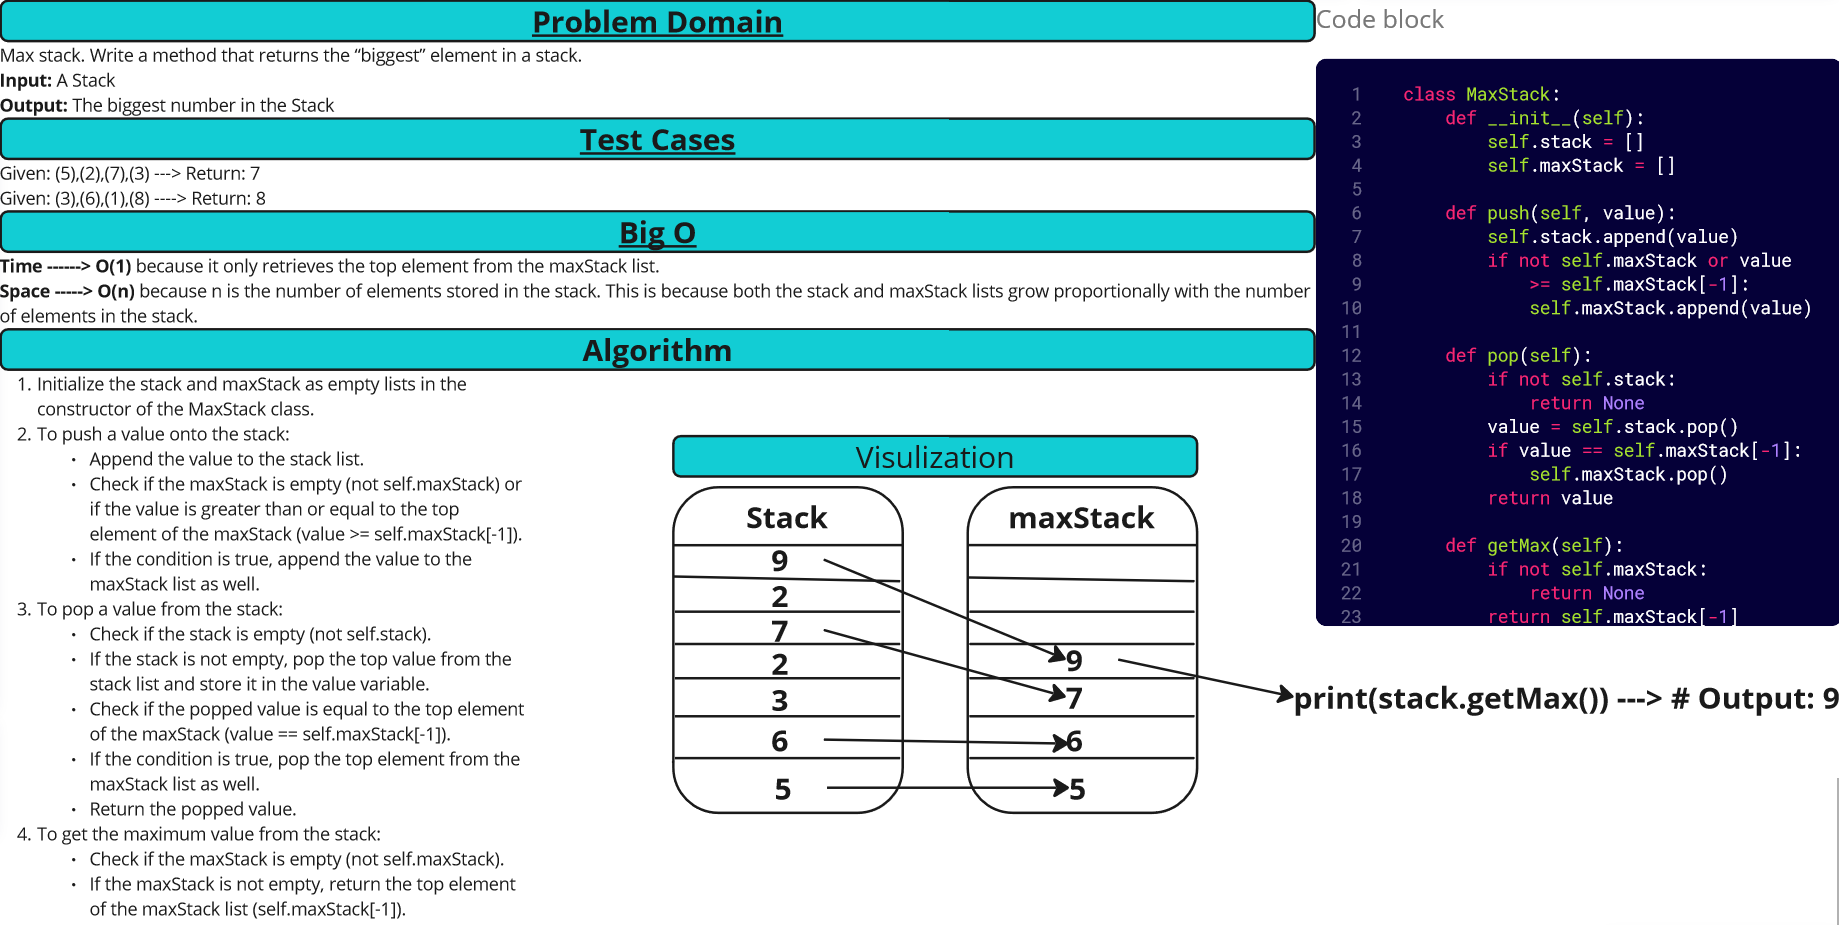
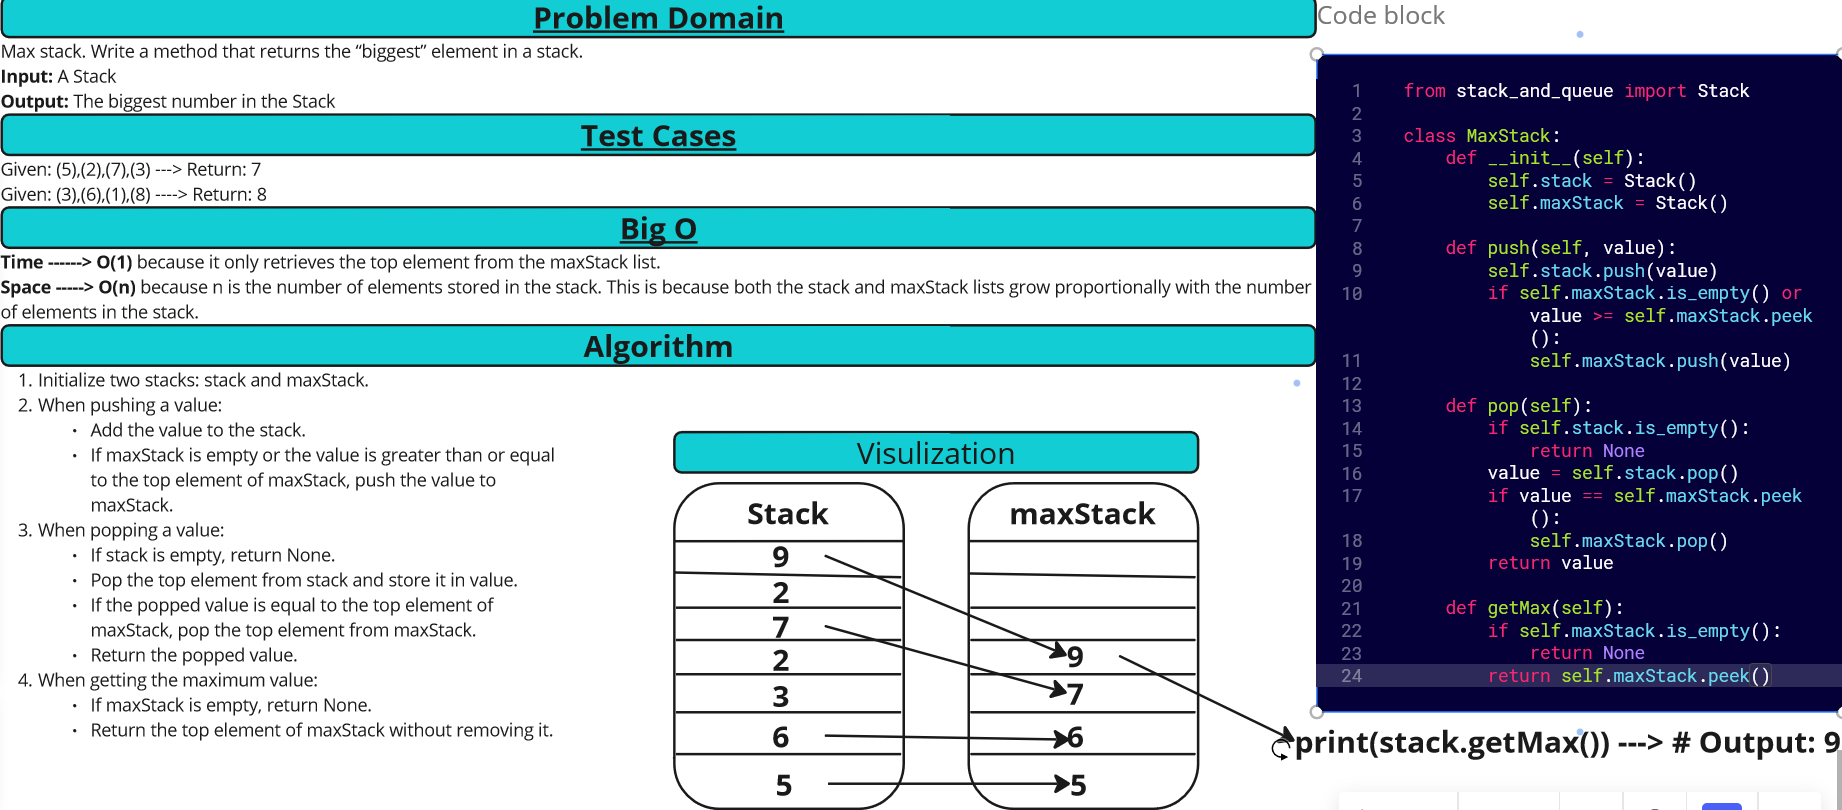
Fix whiteboard14

diff --git a/code_challange_class14/stack_and_queue.py b/code_challange_class14/stack_and_queue.py
@@ -1,0 +1,84 @@
+class Node:
+    """
+    Represents a node in a linked list.
+    
+    Args:
+        value: The value stored in the node.
+        next_: Reference to the next node in the linked list (default is None).
+    """
+    def __init__(self, value, next_=None):
+        self.value = value
+        self.next = next_
+
+class Stack:
+    """
+    Represents a stack data structure.
+    
+    Methods:
+        push(value): Adds a new element to the top of the stack.
+        pop(): Removes and returns the element at the top of the stack.
+        peek(): Returns the element at the top of the stack without removing it.
+        is_empty(): Checks if the stack is empty.
+    """
+    def __init__(self):
+        self.top = None
+
+    def push(self, value):
+        node = Node(value)
+        node.next = self.top
+        self.top = node
+
+    def pop(self):
+        if self.is_empty():
+            raise Exception("Stack is empty")
+        value = self.top.value
+        self.top = self.top.next
+        return value
+
+    def peek(self):
+        if self.is_empty():
+            raise Exception("Stack is empty")
+        return self.top.value
+
+    def is_empty(self):
+        return self.top is None
+
+
+class Queue:
+    """
+    Represents a queue data structure.
+    
+    Methods:
+        enqueue(value): Adds a new element to the rear of the queue.
+        dequeue(): Removes and returns the element at the front of the queue.
+        peek(): Returns the element at the front of the queue without removing it.
+        is_empty(): Checks if the queue is empty.
+    """
+    def __init__(self):
+        self.front = None
+        self.rear = None
+
+    def enqueue(self, value):
+        node = Node(value)
+        if self.rear is None:
+            self.front = self.rear = node
+            return
+        self.rear.next = node
+        self.rear = node
+
+    def dequeue(self):
+        if self.is_empty():
+            raise Exception("Queue is empty")
+        value = self.front.value
+        self.front = self.front.next
+        if self.front is None:
+            self.rear = None
+        return value
+
+    def peek(self):
+        if self.is_empty():
+            raise Exception("Queue is empty")
+        return self.front.value
+
+    def is_empty(self):
+        return self.front is None

diff --git a/code_challange_class14/getMax.py b/code_challange_class14/getMax.py
@@ -1,25 +1,27 @@
+from stack_and_queue import Stack
+
 class MaxStack:
     def __init__(self):
-        self.stack = []
-        self.maxStack = []
+        self.stack = Stack()
+        self.maxStack = Stack()
 
     def push(self, value):
-        self.stack.append(value)
-        if not self.maxStack or value >= self.maxStack[-1]:
-            self.maxStack.append(value)
+        self.stack.push(value)
+        if self.maxStack.is_empty() or value >= self.maxStack.peek():
+            self.maxStack.push(value)
 
     def pop(self):
-        if not self.stack:
+        if self.stack.is_empty():
             return None
         value = self.stack.pop()
-        if value == self.maxStack[-1]:
+        if value == self.maxStack.peek():
             self.maxStack.pop()
         return value
 
     def getMax(self):
-        if not self.maxStack:
+        if self.maxStack.is_empty():
             return None
-        return self.maxStack[-1]
+        return self.maxStack.peek()
     
 stack = MaxStack()
 stack.push(5)
